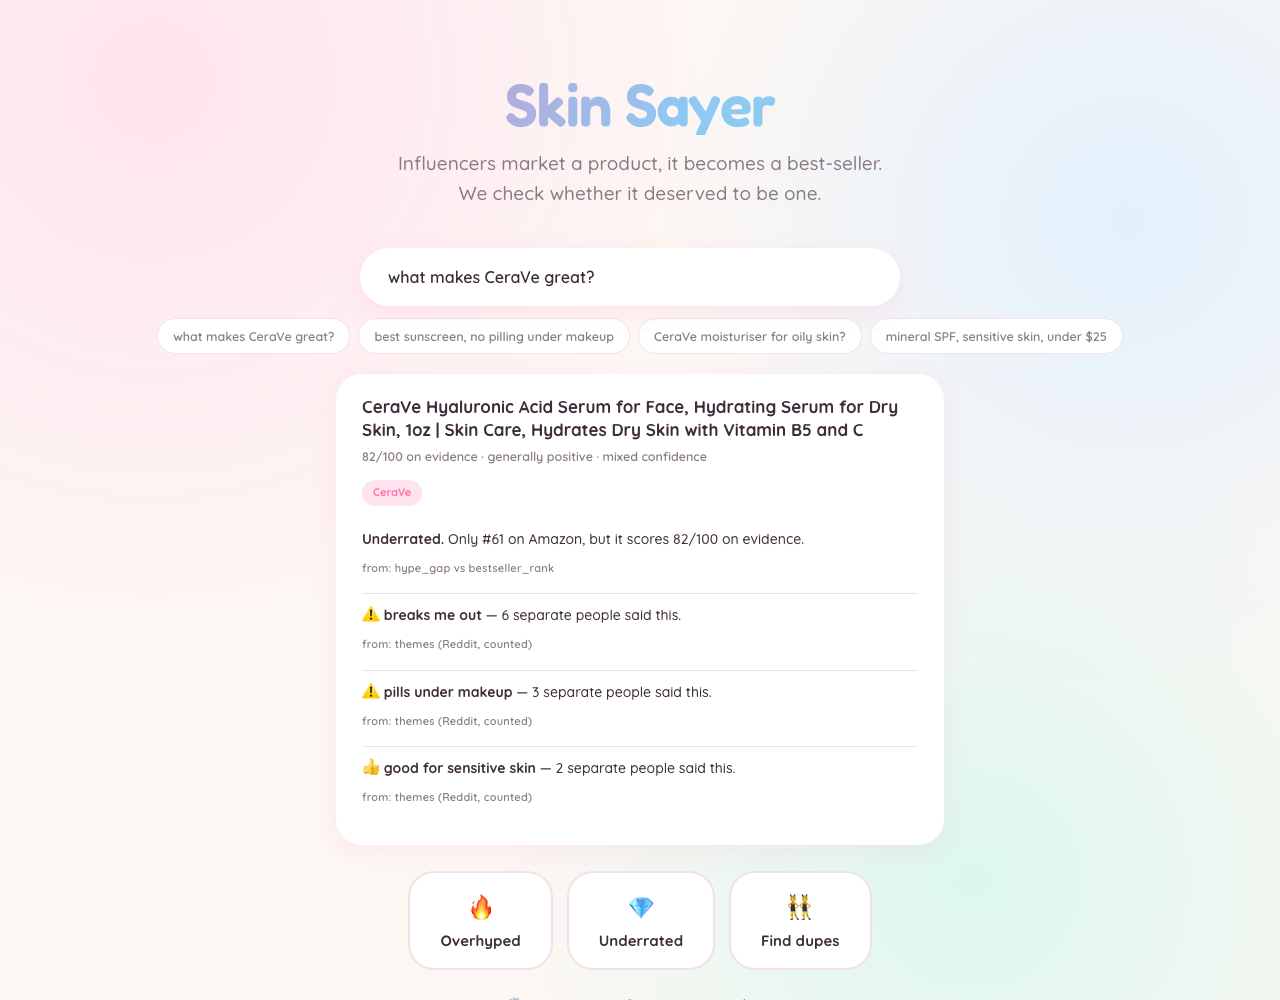
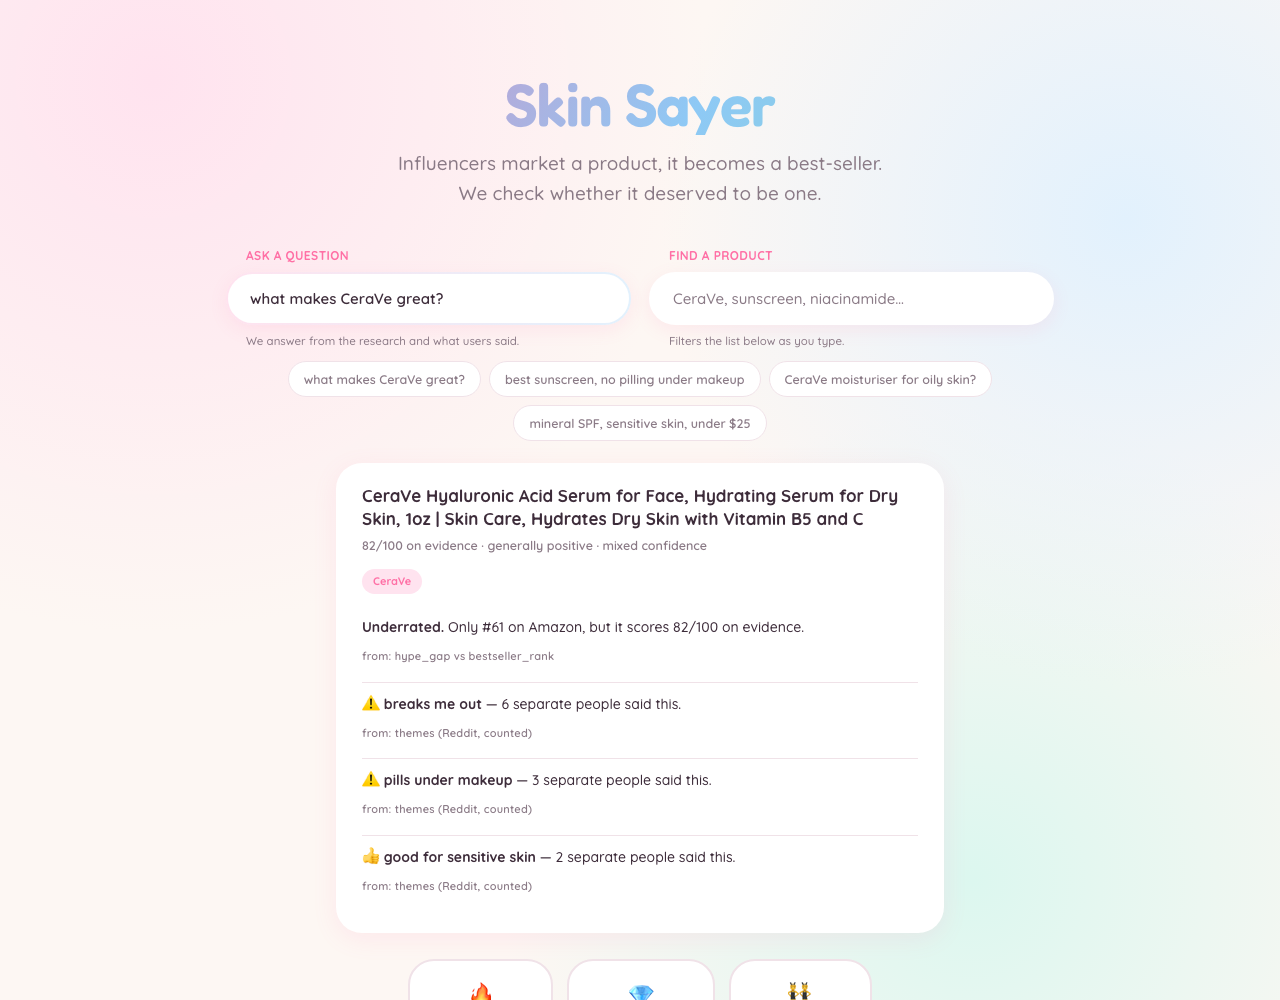
Two boxes: ask a question, or find a product
One input did both. Typing filtered the grid; pressing Enter asked a
question. Two behaviours with no visible difference between them, so
nobody discovered the second one -- including me, testing my own page.

Now they are separate inputs with labels that say what each does, and
they no longer interfere: typing in the find box used to clear an answer
you had just read, because both behaviours shared one handler. The
browser check asserts that independence rather than trusting it.

The example chips moved under the ask box they belong to, since showing
a question is the only reliable way to teach that questions are allowed.

diff --git a/web/index.html b/web/index.html
@@ -59,7 +59,37 @@
        -webkit-background-clip:text; background-clip:text; color:transparent; }
   .tagline { margin:0 auto; max-width:640px; font-size:19px; color:var(--muted); line-height:1.55; font-weight:500; }
 
-  /* ---- search ---- */
+  /* ---- the two boxes ----
+     Ask and Find are different jobs, so they get different boxes with
+     different labels. One box doing both, switched by whether you pressed
+     Enter, was invisible. */
+  .boxes { display:flex; gap:18px; justify-content:center; align-items:flex-start;
+           margin:30px auto 10px; max-width:860px; padding:0 16px; flex-wrap:wrap; }
+  .box-wrap { flex:1 1 330px; min-width:280px; }
+  .box-label { display:block; font-size:12px; font-weight:800; letter-spacing:.4px;
+               text-transform:uppercase; color:var(--accent); margin:0 0 7px 20px; }
+  .box-hint { font-size:11.5px; color:var(--muted); font-weight:500;
+              margin:7px 0 0 20px; }
+  .boxes input {
+    width:100%; padding:15px 22px; font-size:15px; font-family:inherit;
+    font-weight:600; border:2.5px solid transparent; border-radius:999px;
+    background:var(--surface); color:var(--text); outline:none;
+    box-shadow:0 5px 18px rgba(255,111,165,.11);
+    transition:border-color .2s, box-shadow .2s, transform .2s;
+  }
+  .boxes input::placeholder { color:var(--muted); font-weight:500; }
+  .boxes input:focus {
+    border-color:var(--accent);
+    box-shadow:0 9px 26px rgba(255,111,165,.22);
+    transform:translateY(-1px);
+  }
+  /* The ask box is the primary action, so it carries the stronger tint. */
+  #ask { background:linear-gradient(#fff,#fff) padding-box,
+                    linear-gradient(90deg,var(--accent-soft),var(--sky-soft)) border-box;
+         border:2.5px solid transparent; }
+  @media (max-width:700px) { .boxes { gap:14px; } }
+
+  /* ---- search (legacy, kept for the compare + routine inputs) ---- */
   .searchbar { display:flex; justify-content:center; margin:32px 0 18px; }
   .searchbar input {
     width:100%; max-width:540px; padding:17px 26px; font-size:16px; font-family:inherit;
@@ -78,7 +108,7 @@
   /* ---- example questions ----
      People do not know a search box takes questions until they see one. */
   .asks { display:flex; flex-wrap:wrap; gap:8px; justify-content:center;
-          margin:-6px 0 20px; padding:0 16px; }
+          margin:4px auto 22px; padding:0 16px; max-width:860px; }
   .ask { font:inherit; font-size:12.5px; font-weight:600; color:var(--muted);
          background:var(--surface); border:1.5px solid var(--hair);
          border-radius:999px; padding:7px 15px; cursor:pointer;
@@ -610,14 +640,33 @@
   </header>
 
   <!-- ONE primary action. Everything else is secondary and hidden until asked. -->
-  <div class="searchbar">
-    <div style="position:relative;width:100%;max-width:560px">
-      <input id="q" type="search" placeholder="Ask anything — &ldquo;best sunscreen that doesn&rsquo;t pill under makeup&rdquo;" autocomplete="off">
-      <div id="ac" class="ac"></div>
+  <!-- TWO boxes, because they do different things.
+       Previously one box filtered while you typed and asked a question on
+       Enter -- two behaviours with no visible difference between them, which
+       nobody discovers. Separating them means the label tells you what each
+       one does. -->
+  <div class="boxes">
+    <div class="box-wrap">
+      <label class="box-label" for="ask">Ask a question</label>
+      <div style="position:relative">
+        <input id="ask" type="search" autocomplete="off"
+               placeholder="why does it pill under makeup?">
+      </div>
+      <div class="box-hint">We answer from the research and what users said.</div>
+    </div>
+
+    <div class="box-wrap">
+      <label class="box-label" for="q">Find a product</label>
+      <div style="position:relative">
+        <input id="q" type="search" autocomplete="off"
+               placeholder="CeraVe, sunscreen, niacinamide&hellip;">
+        <div id="ac" class="ac"></div>
+      </div>
+      <div class="box-hint">Filters the list below as you type.</div>
     </div>
   </div>
 
-  <!-- Example questions. People do not know they can ask until shown. -->
+  <!-- Example questions, under the ask box they belong to. -->
   <div class="asks">
     <button class="ask" data-q="what makes CeraVe great?">what makes CeraVe great?</button>
     <button class="ask" data-q="best sunscreen that doesn't pill under makeup">best sunscreen, no pilling under makeup</button>
@@ -1308,8 +1357,8 @@ function renderAnswer(data) {
 }
 
 async function askQuestion() {
-  const q = document.getElementById('q').value.trim();
-  if (!q) { clearAnswer(); apply(); return; }
+  const q = document.getElementById('ask').value.trim();
+  if (!q) { clearAnswer(); return; }
 
   answerBox.className = 'answer on';
   answerBox.innerHTML = `<div class="card"><h3>Looking&hellip;</h3></div>`;
@@ -1317,29 +1366,40 @@ async function askQuestion() {
   try {
     const data = await (await fetch(`/api/ask?q=${encodeURIComponent(q)}`)).json();
     renderAnswer(data);
-    // The answer names the products; the grid below shows their full cards.
-    render(data.products || []);
+    // Show the products the answer is about, when it named any. A general
+    // question ("is fragrance a problem") names none, so the grid keeps
+    // whatever the FIND box is currently filtering -- the two boxes do not
+    // overwrite each other.
+    if ((data.products || []).length) render(data.products);
   } catch (e) {
-    // A failed question must not clear the catalogue -- fall back to
-    // substring filtering so the page stays useful.
+    // A failed question must leave the catalogue alone. The find box owns
+    // the grid; a broken answer should not empty it.
     answerBox.className = 'answer';
-    apply();
   }
 }
 
-document.getElementById('q').addEventListener('keydown', e => {
+// The ASK box: Enter submits, and so does the search-input clear button.
+document.getElementById('ask').addEventListener('keydown', e => {
   if (e.key === 'Enter') { e.preventDefault(); askQuestion(); }
 });
+document.getElementById('ask').addEventListener('search', e => {
+  if (!e.target.value.trim()) clearAnswer();   // the native clear (x)
+});
 
+// Example chips fill the ASK box and submit, so a first-time visitor sees
+// what a question looks like without having to guess.
 document.querySelectorAll('.ask').forEach(btn => {
   btn.onclick = () => {
-    document.getElementById('q').value = btn.dataset.q;
+    const box = document.getElementById('ask');
+    box.value = btn.dataset.q;
     askQuestion();
   };
 });
 
 document.getElementById('doCompare').onclick = runCompare;
-document.getElementById('q').addEventListener('input', () => { clearAnswer(); apply(); });
+// The FIND box filters the grid and nothing else. It used to clear the
+// answer too, back when both behaviours lived in one input.
+document.getElementById('q').addEventListener('input', apply);
 document.querySelectorAll('.f').forEach(cb => cb.onchange = apply);
 document.getElementById('price').addEventListener('input', e => {
   document.getElementById('priceLabel').textContent = e.target.value;

diff --git a/scripts/browser_check.py b/scripts/browser_check.py
@@ -76,8 +76,8 @@ def main() -> int:
                 failures.append(f"expected >=3 example chips, found {chips}")
 
             for question, must_contain, kind in CASES:
-                page.fill("#q", question)
-                page.press("#q", "Enter")
+                page.fill("#ask", question)
+                page.press("#ask", "Enter")
 
                 try:
                     page.wait_for_function(
@@ -111,20 +111,29 @@ def main() -> int:
                 # autocomplete dropdown overlays the card once typing resumes,
                 # so a screenshot taken at the end shows the wrong thing.
                 if question == CASES[0][0]:
-                    page.locator("#q").blur()
+                    page.locator("#ask").blur()
                     page.wait_for_timeout(300)
                     page.screenshot(
                         path=str(ROOT / "interview_review" / "ask_screenshot.png")
                     )
 
-            # Typing (without Enter) must clear the answer and fall back to
-            # live filtering, so the two modes never show stale state together.
+            # The two boxes are INDEPENDENT. Typing in the find box filters
+            # the grid and must leave the answer alone -- they used to be one
+            # input where typing destroyed the answer you had just read.
+            before = page.locator("#answer").inner_text()
             page.fill("#q", "cera")
-            page.wait_for_timeout(400)
-            if "on" in (page.locator("#answer").get_attribute("class") or ""):
-                failures.append("typing did not clear the previous answer")
+            page.wait_for_timeout(500)
+            after = page.locator("#answer").inner_text()
+            if after != before:
+                failures.append("the find box disturbed the answer")
             else:
-                print("  [ok  ] typing clears the answer and filters live")
+                print("  [ok  ] find box filters without clearing the answer")
+
+            # And both boxes must exist, with labels saying what they do.
+            labels = page.locator(".box-label").all_inner_texts()
+            print(f"  [ok  ] two boxes: {labels}")
+            if len(labels) != 2:
+                failures.append(f"expected 2 labelled boxes, found {len(labels)}")
 
             print("screenshot -> interview_review/ask_screenshot.png")
 
